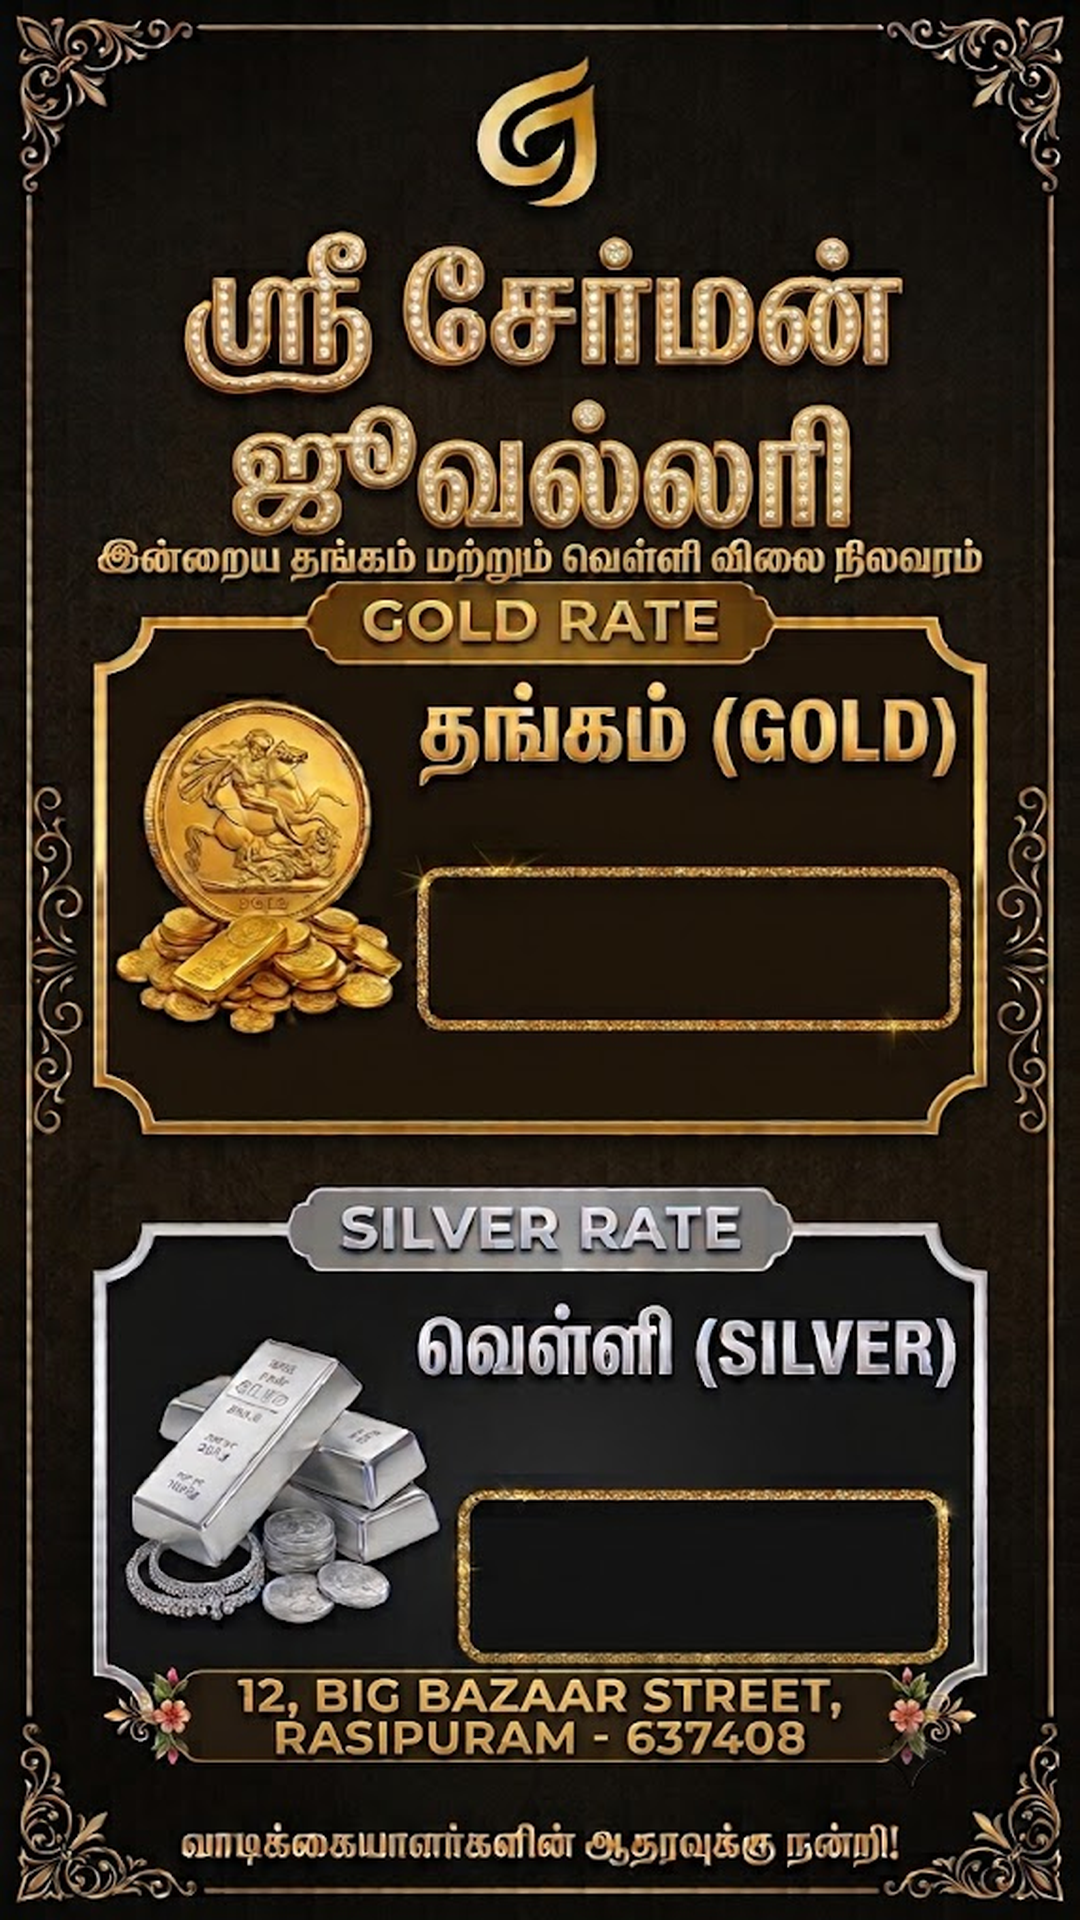
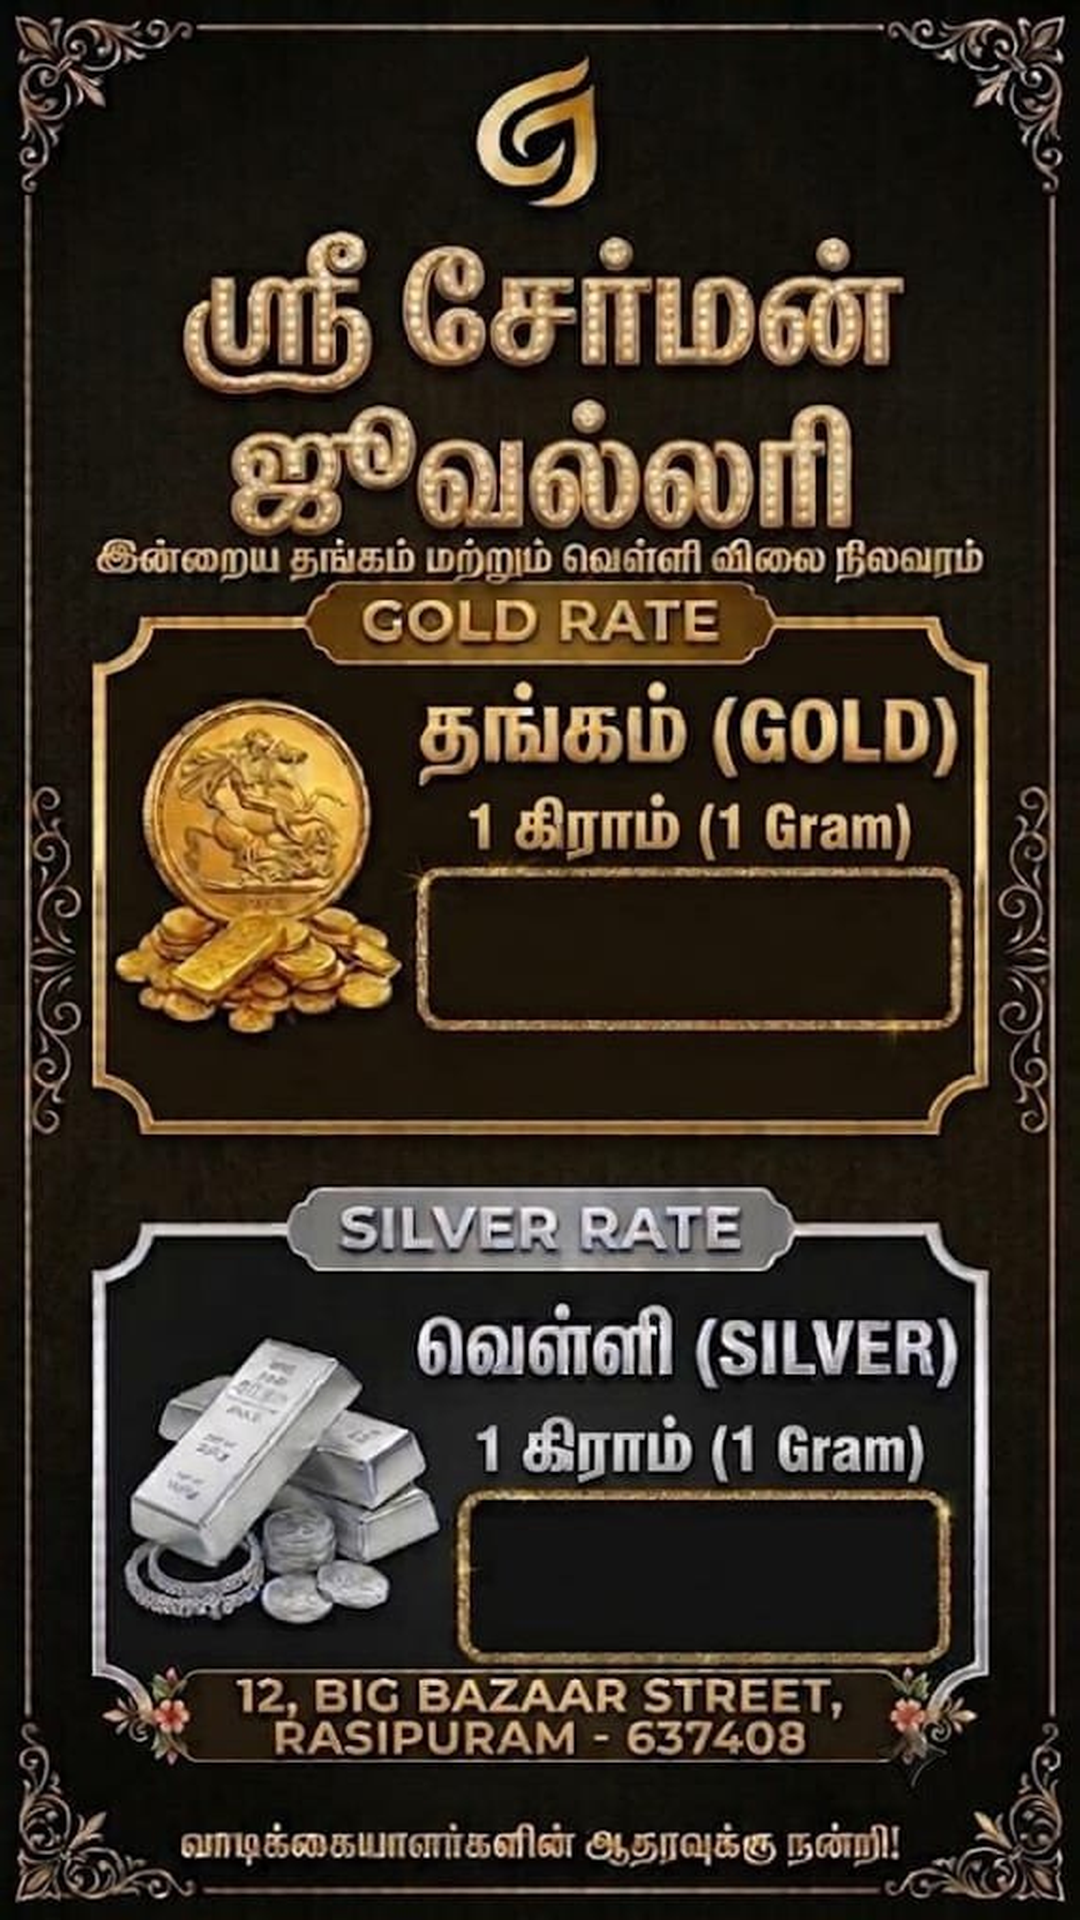
Update master poster source template to latest artwork (1 Gram labels and refined glitter boxes) with calibrated coordinates

diff --git a/frontend/src/components/AxisAdjuster.tsx b/frontend/src/components/AxisAdjuster.tsx
@@ -23,34 +23,34 @@ export const AxisAdjuster: React.FC<AxisAdjusterProps> = ({
 
   const nudge = (key: 'gold' | 'silver' | 'date', axis: 'x' | 'y', delta: number) => {
     if (key === 'gold') {
-      if (axis === 'x') updateSetting('goldRateX', (settings.goldRateX ?? 685) + delta);
+      if (axis === 'x') updateSetting('goldRateX', (settings.goldRateX ?? 689) + delta);
       if (axis === 'y') updateSetting('goldRateY', (settings.goldRateY ?? 948) + delta);
     } else if (key === 'silver') {
-      if (axis === 'x') updateSetting('silverRateX', (settings.silverRateX ?? 700) + delta);
-      if (axis === 'y') updateSetting('silverRateY', (settings.silverRateY ?? 1595) + delta);
+      if (axis === 'x') updateSetting('silverRateX', (settings.silverRateX ?? 703) + delta);
+      if (axis === 'y') updateSetting('silverRateY', (settings.silverRateY ?? 1580) + delta);
     } else if (key === 'date') {
       if (axis === 'x') updateSetting('dateX', (settings.dateX ?? 540) + delta);
-      if (axis === 'y') updateSetting('dateY', (settings.dateY ?? 1790) + delta);
+      if (axis === 'y') updateSetting('dateY', (settings.dateY ?? 1785) + delta);
     }
   };
 
   const handleResetDefaults = () => {
     onChange({
       ...settings,
-      goldRateX: 685,
+      goldRateX: 689,
       goldRateY: 948,
       goldRateSize: 104,
       goldBgPatch: false,
       goldBgWidth: 480,
       goldBgHeight: 110,
-      silverRateX: 700,
-      silverRateY: 1595,
+      silverRateX: 703,
+      silverRateY: 1580,
       silverRateSize: 104,
       silverBgPatch: false,
       silverBgWidth: 480,
       silverBgHeight: 110,
       dateX: 540,
-      dateY: 1790,
+      dateY: 1785,
       dateSize: 36,
       dateBgPatch: false,
       dateBgWidth: 400,
@@ -111,7 +111,7 @@ export const AxisAdjuster: React.FC<AxisAdjusterProps> = ({
               Gold Rate
             </span>
             <span className="font-mono text-[10px] text-[#cfb684]">
-              ({settings.goldRateX ?? 685}, {settings.goldRateY ?? 948}) • {settings.goldRateSize ?? 104}px
+              ({settings.goldRateX ?? 689}, {settings.goldRateY ?? 948}) • {settings.goldRateSize ?? 104}px
             </span>
           </div>
 
@@ -176,13 +176,13 @@ export const AxisAdjuster: React.FC<AxisAdjusterProps> = ({
             <div>
               <div className="flex justify-between text-[10px] text-[#a99c85]">
                 <span>X Position (Horizontal):</span>
-                <span className="font-mono">{settings.goldRateX ?? 685}px</span>
+                <span className="font-mono">{settings.goldRateX ?? 689}px</span>
               </div>
               <input
                 type="range"
                 min="500"
                 max="900"
-                value={settings.goldRateX ?? 685}
+                value={settings.goldRateX ?? 689}
                 onChange={(e) => updateSetting('goldRateX', Number(e.target.value))}
                 className="w-full accent-[#f7d070] h-1.5 bg-[#0f0c08] rounded cursor-pointer"
               />
@@ -250,7 +250,7 @@ export const AxisAdjuster: React.FC<AxisAdjusterProps> = ({
               Silver Rate
             </span>
             <span className="font-mono text-[10px] text-[#b0bac5]">
-              ({settings.silverRateX ?? 700}, {settings.silverRateY ?? 1595}) • {settings.silverRateSize ?? 104}px
+              ({settings.silverRateX ?? 703}, {settings.silverRateY ?? 1580}) • {settings.silverRateSize ?? 104}px
             </span>
           </div>
 
@@ -315,13 +315,13 @@ export const AxisAdjuster: React.FC<AxisAdjusterProps> = ({
             <div>
               <div className="flex justify-between text-[10px] text-[#a99c85]">
                 <span>X Position (Horizontal):</span>
-                <span className="font-mono">{settings.silverRateX ?? 700}px</span>
+                <span className="font-mono">{settings.silverRateX ?? 703}px</span>
               </div>
               <input
                 type="range"
                 min="500"
                 max="900"
-                value={settings.silverRateX ?? 700}
+                value={settings.silverRateX ?? 703}
                 onChange={(e) => updateSetting('silverRateX', Number(e.target.value))}
                 className="w-full accent-[#d0d7de] h-1.5 bg-[#0f0c08] rounded cursor-pointer"
               />
@@ -330,13 +330,13 @@ export const AxisAdjuster: React.FC<AxisAdjusterProps> = ({
             <div>
               <div className="flex justify-between text-[10px] text-[#a99c85]">
                 <span>Y Position (Vertical):</span>
-                <span className="font-mono">{settings.silverRateY ?? 1595}px</span>
+                <span className="font-mono">{settings.silverRateY ?? 1580}px</span>
               </div>
               <input
                 type="range"
                 min="1450"
                 max="1700"
-                value={settings.silverRateY ?? 1595}
+                value={settings.silverRateY ?? 1580}
                 onChange={(e) => updateSetting('silverRateY', Number(e.target.value))}
                 className="w-full accent-[#d0d7de] h-1.5 bg-[#0f0c08] rounded cursor-pointer"
               />
@@ -389,7 +389,7 @@ export const AxisAdjuster: React.FC<AxisAdjusterProps> = ({
               Date
             </span>
             <span className="font-mono text-[10px] text-[#cfb684]">
-              ({settings.dateX ?? 540}, {settings.dateY ?? 1790}) • {settings.dateSize ?? 36}px
+              ({settings.dateX ?? 540}, {settings.dateY ?? 1785}) • {settings.dateSize ?? 36}px
             </span>
           </div>
 
@@ -469,13 +469,13 @@ export const AxisAdjuster: React.FC<AxisAdjusterProps> = ({
             <div>
               <div className="flex justify-between text-[10px] text-[#a99c85]">
                 <span>Y Position (Vertical):</span>
-                <span className="font-mono">{settings.dateY ?? 1790}px</span>
+                <span className="font-mono">{settings.dateY ?? 1785}px</span>
               </div>
               <input
                 type="range"
                 min="1700"
                 max="1840"
-                value={settings.dateY ?? 1790}
+                value={settings.dateY ?? 1785}
                 onChange={(e) => updateSetting('dateY', Number(e.target.value))}
                 className="w-full accent-[#fce8a6] h-1.5 bg-[#0f0c08] rounded cursor-pointer"
               />

diff --git a/frontend/src/utils/posterRenderer.ts b/frontend/src/utils/posterRenderer.ts
@@ -43,7 +43,7 @@ export async function renderPosterToCanvas(
   const isCustomModular = settings.posterMode === 'custom_modular';
   const baseTemplateSrc = isCustomModular
     ? '/assets/poster_template_custom_1080x1920.png'
-    : '/assets/poster_template_clean_1080x1920.png?v=clean_v4';
+    : '/assets/poster_template_clean_1080x1920.png?v=clean_v5';
 
   try {
     const baseImg = await loadImage(baseTemplateSrc);
@@ -78,7 +78,7 @@ export async function renderPosterToCanvas(
   }
 
   // 1. DYNAMIC GOLD RATE (Adjustable X, Y & Size)
-  const goldX = settings.goldRateX ?? 685;
+  const goldX = settings.goldRateX ?? 689;
   const goldY = settings.goldRateY ?? 948;
   if (settings.goldBgPatch) {
     drawAdjustablePatch(ctx, goldX, goldY, settings.goldBgWidth ?? 480, settings.goldBgHeight ?? 110);
@@ -86,8 +86,8 @@ export async function renderPosterToCanvas(
   renderGoldRatePrice(ctx, goldX, goldY, goldRate, settings.goldRateSize ?? 104);
 
   // 2. DYNAMIC SILVER RATE (Adjustable X, Y & Size)
-  const silverX = settings.silverRateX ?? 700;
-  const silverY = settings.silverRateY ?? 1595;
+  const silverX = settings.silverRateX ?? 703;
+  const silverY = settings.silverRateY ?? 1580;
   if (settings.silverBgPatch) {
     drawAdjustablePatch(ctx, silverX, silverY, settings.silverBgWidth ?? 480, settings.silverBgHeight ?? 110);
   }
@@ -95,7 +95,7 @@ export async function renderPosterToCanvas(
 
   // 3. DYNAMIC DATE (Adjustable X, Y & Size)
   const dateX = settings.dateX ?? 540;
-  const dateY = settings.dateY ?? 1790;
+  const dateY = settings.dateY ?? 1785;
   if (settings.dateBgPatch) {
     drawAdjustablePatch(ctx, dateX, dateY, settings.dateBgWidth ?? 380, settings.dateBgHeight ?? 45, 8);
   }

diff --git a/frontend/src/utils/storage.ts b/frontend/src/utils/storage.ts
@@ -28,22 +28,22 @@ export const DEFAULT_SETTINGS: ShopSettings = {
   useBackendApi: false,
 
   // Default text axis positions & font sizes on 1080x1920 canvas
-  goldRateX: 685,
+  goldRateX: 689,
   goldRateY: 948,
   goldRateSize: 104,
   goldBgPatch: false,
   goldBgWidth: 480,
   goldBgHeight: 110,
 
-  silverRateX: 700,
-  silverRateY: 1595,
+  silverRateX: 703,
+  silverRateY: 1580,
   silverRateSize: 104,
   silverBgPatch: false,
   silverBgWidth: 480,
   silverBgHeight: 110,
 
   dateX: 540,
-  dateY: 1790,
+  dateY: 1785,
   dateSize: 36,
   dateBgPatch: false,
   dateBgWidth: 400,
